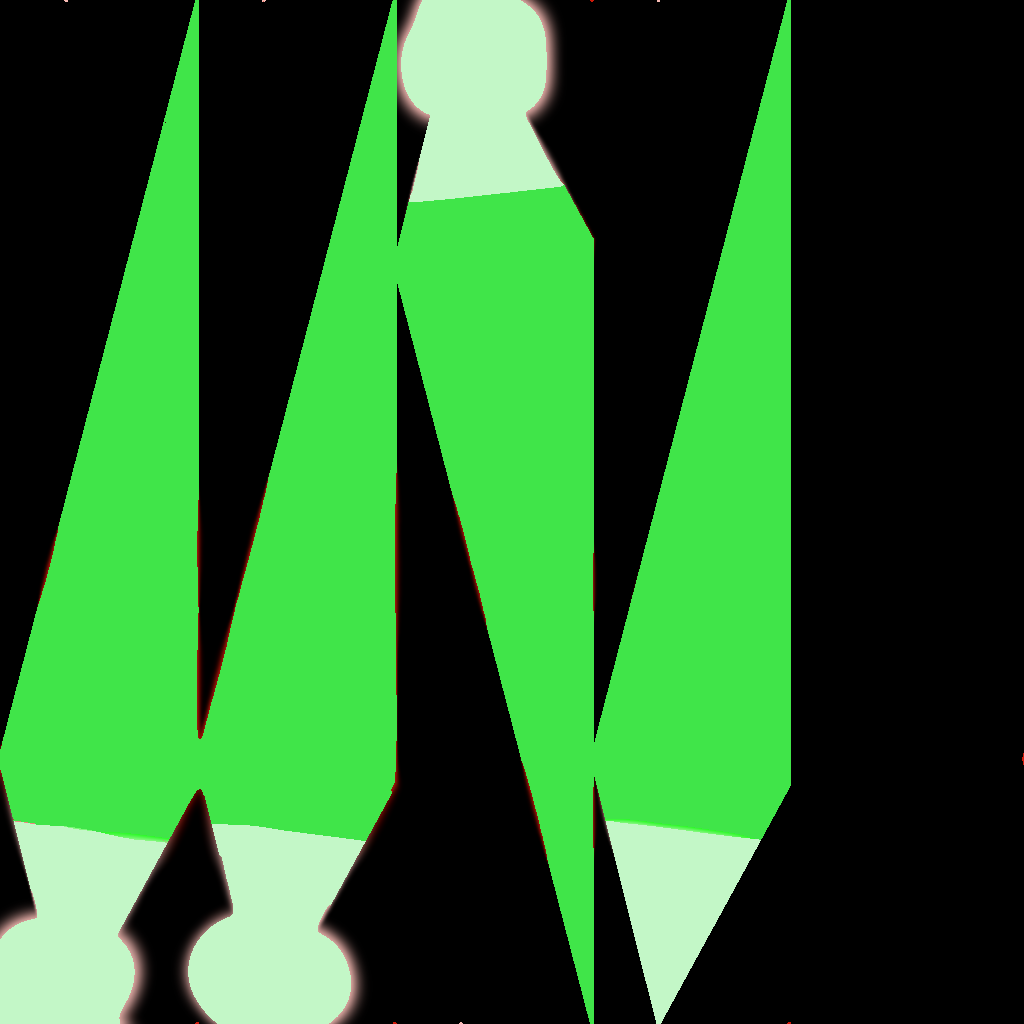
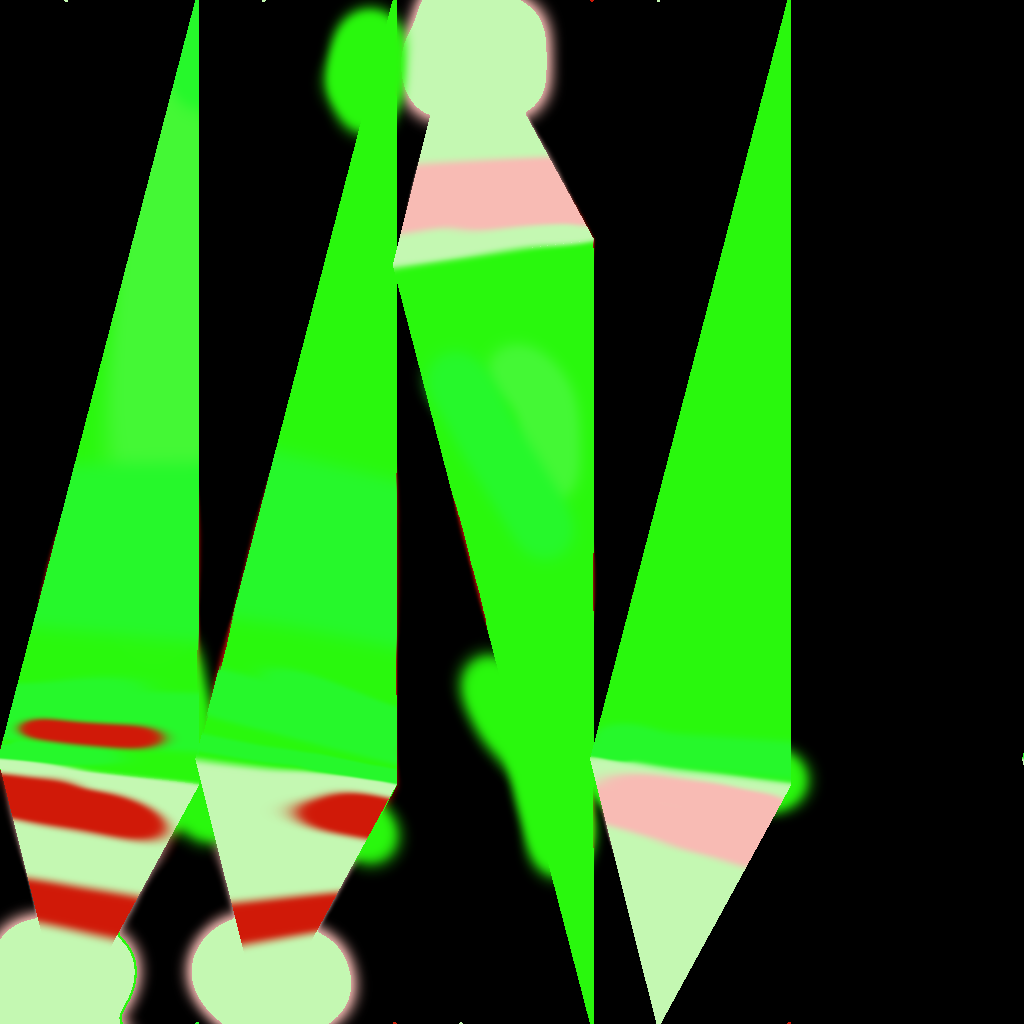
ボス死亡後に演出を入れられるようにした。自機死亡後も墜落した地点から黒煙を出すようにした

diff --git a/DirectX12MyEngine/FIGHTER/SourceCode/game/gameScene/GameScene.cpp b/DirectX12MyEngine/FIGHTER/SourceCode/game/gameScene/GameScene.cpp
@@ -249,6 +249,11 @@ void GameScene::Update()
 	//2D衝突判定管理
 	CollisionCheck2d();
 
+
+	//ボス死亡後の演出
+	if (bossDeadEffect) {
+		bossDeadEffect->Update();
+	}
 	//パーティクル更新
 	ParticleEmitter::GetInstance()->Update();
 
@@ -509,7 +514,10 @@ void GameScene::ObjectRelease()
 			GameGroundManager::SetIsScroll(false);
 			//山のスクロール状態を解除
 			GameMountainManager::SetIsScroll(false);
+			//死亡後演出を生成
+			bossDeadEffect.reset(BossDeadEffect::Create(boss->GetMainBody()->GetWorldPos()));
 
+			//解放
 			boss.reset();
 		}
 	}
